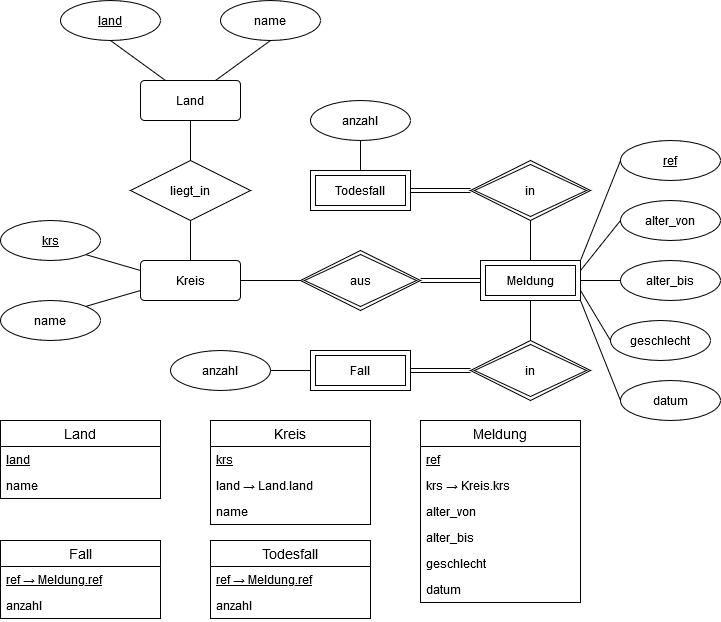
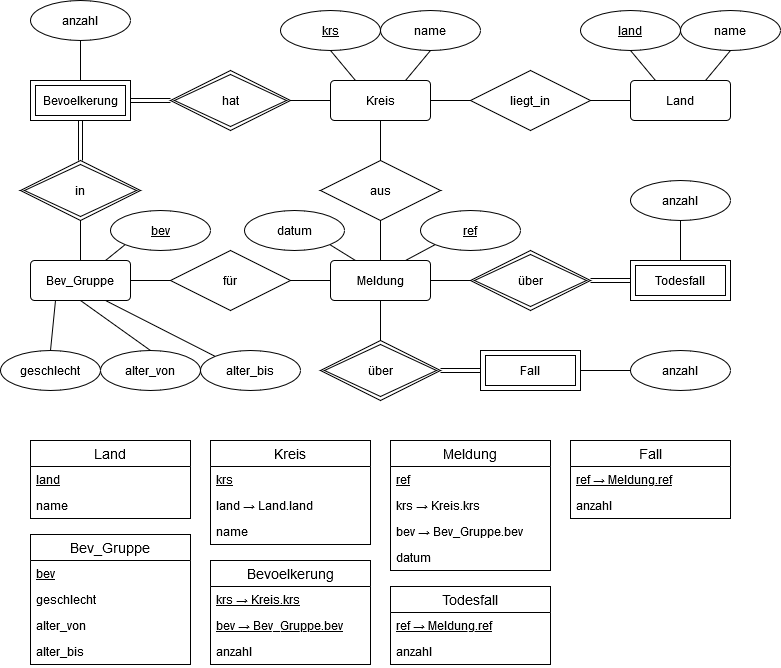
updated rel. schema

diff --git a/code/query_corona_db.py b/code/query_corona_db.py
@@ -34,6 +34,25 @@ def create_query():
     """
     Interactive creation of SQL-query
     """
+    sql_cases = """
+        SELECT DISTINCT l.name AS Bundesland, l.land, k.name AS Kreis, k.krs, m.datum AS Datum, 
+            SUM(COALESCE(f.anzahl, 0)) OVER (PARTITION BY m.krs ORDER BY m.datum) AS Faelle, 
+            SUM(COALESCE(t.anzahl, 0)) OVER (PARTITION BY m.krs ORDER BY m.datum) AS Todesfaelle
+            FROM meldung m
+            JOIN kreis k ON m.krs = k.krs
+            JOIN land l ON k.land = l.land
+            FULL JOIN fall f ON m.ref = f.ref
+            FULL JOIN todesfall t ON m.ref = t.ref),"""
+    sql_base_pop = """
+        SELECT DISTINCT l.land AS Bundesland, l.land, k.name AS Kreis, k.krs, SUM(b.anzahl) AS Gesamtpopulation
+            FROM kreis k
+            JOIN land l ON k.land = l.land
+            JOIN bevoelkerung b ON k.krs = b.krs
+            GROUP BY l.land, k.krs"""
+    sql_combine = """
+    SELECT f.Bundesland, f.land, f.Kreis, f.krs, f.Datum, f.Faelle, f.Todesfaelle, p.Gesamtpopulation
+        FROM faelle f JOIN population p ON f.krs = p.krs
+        ORDER BY f.land, f.krs, f.datum"""
     res = input('Regionale Auflösung (Bund, Land, Kreis): ')
     date_from = str(input('Meldedatum vom (JJJJ-MM-TT): '))
     date_to = str(input('Meldedatum bis (JJJJ-MM-TT): '))
